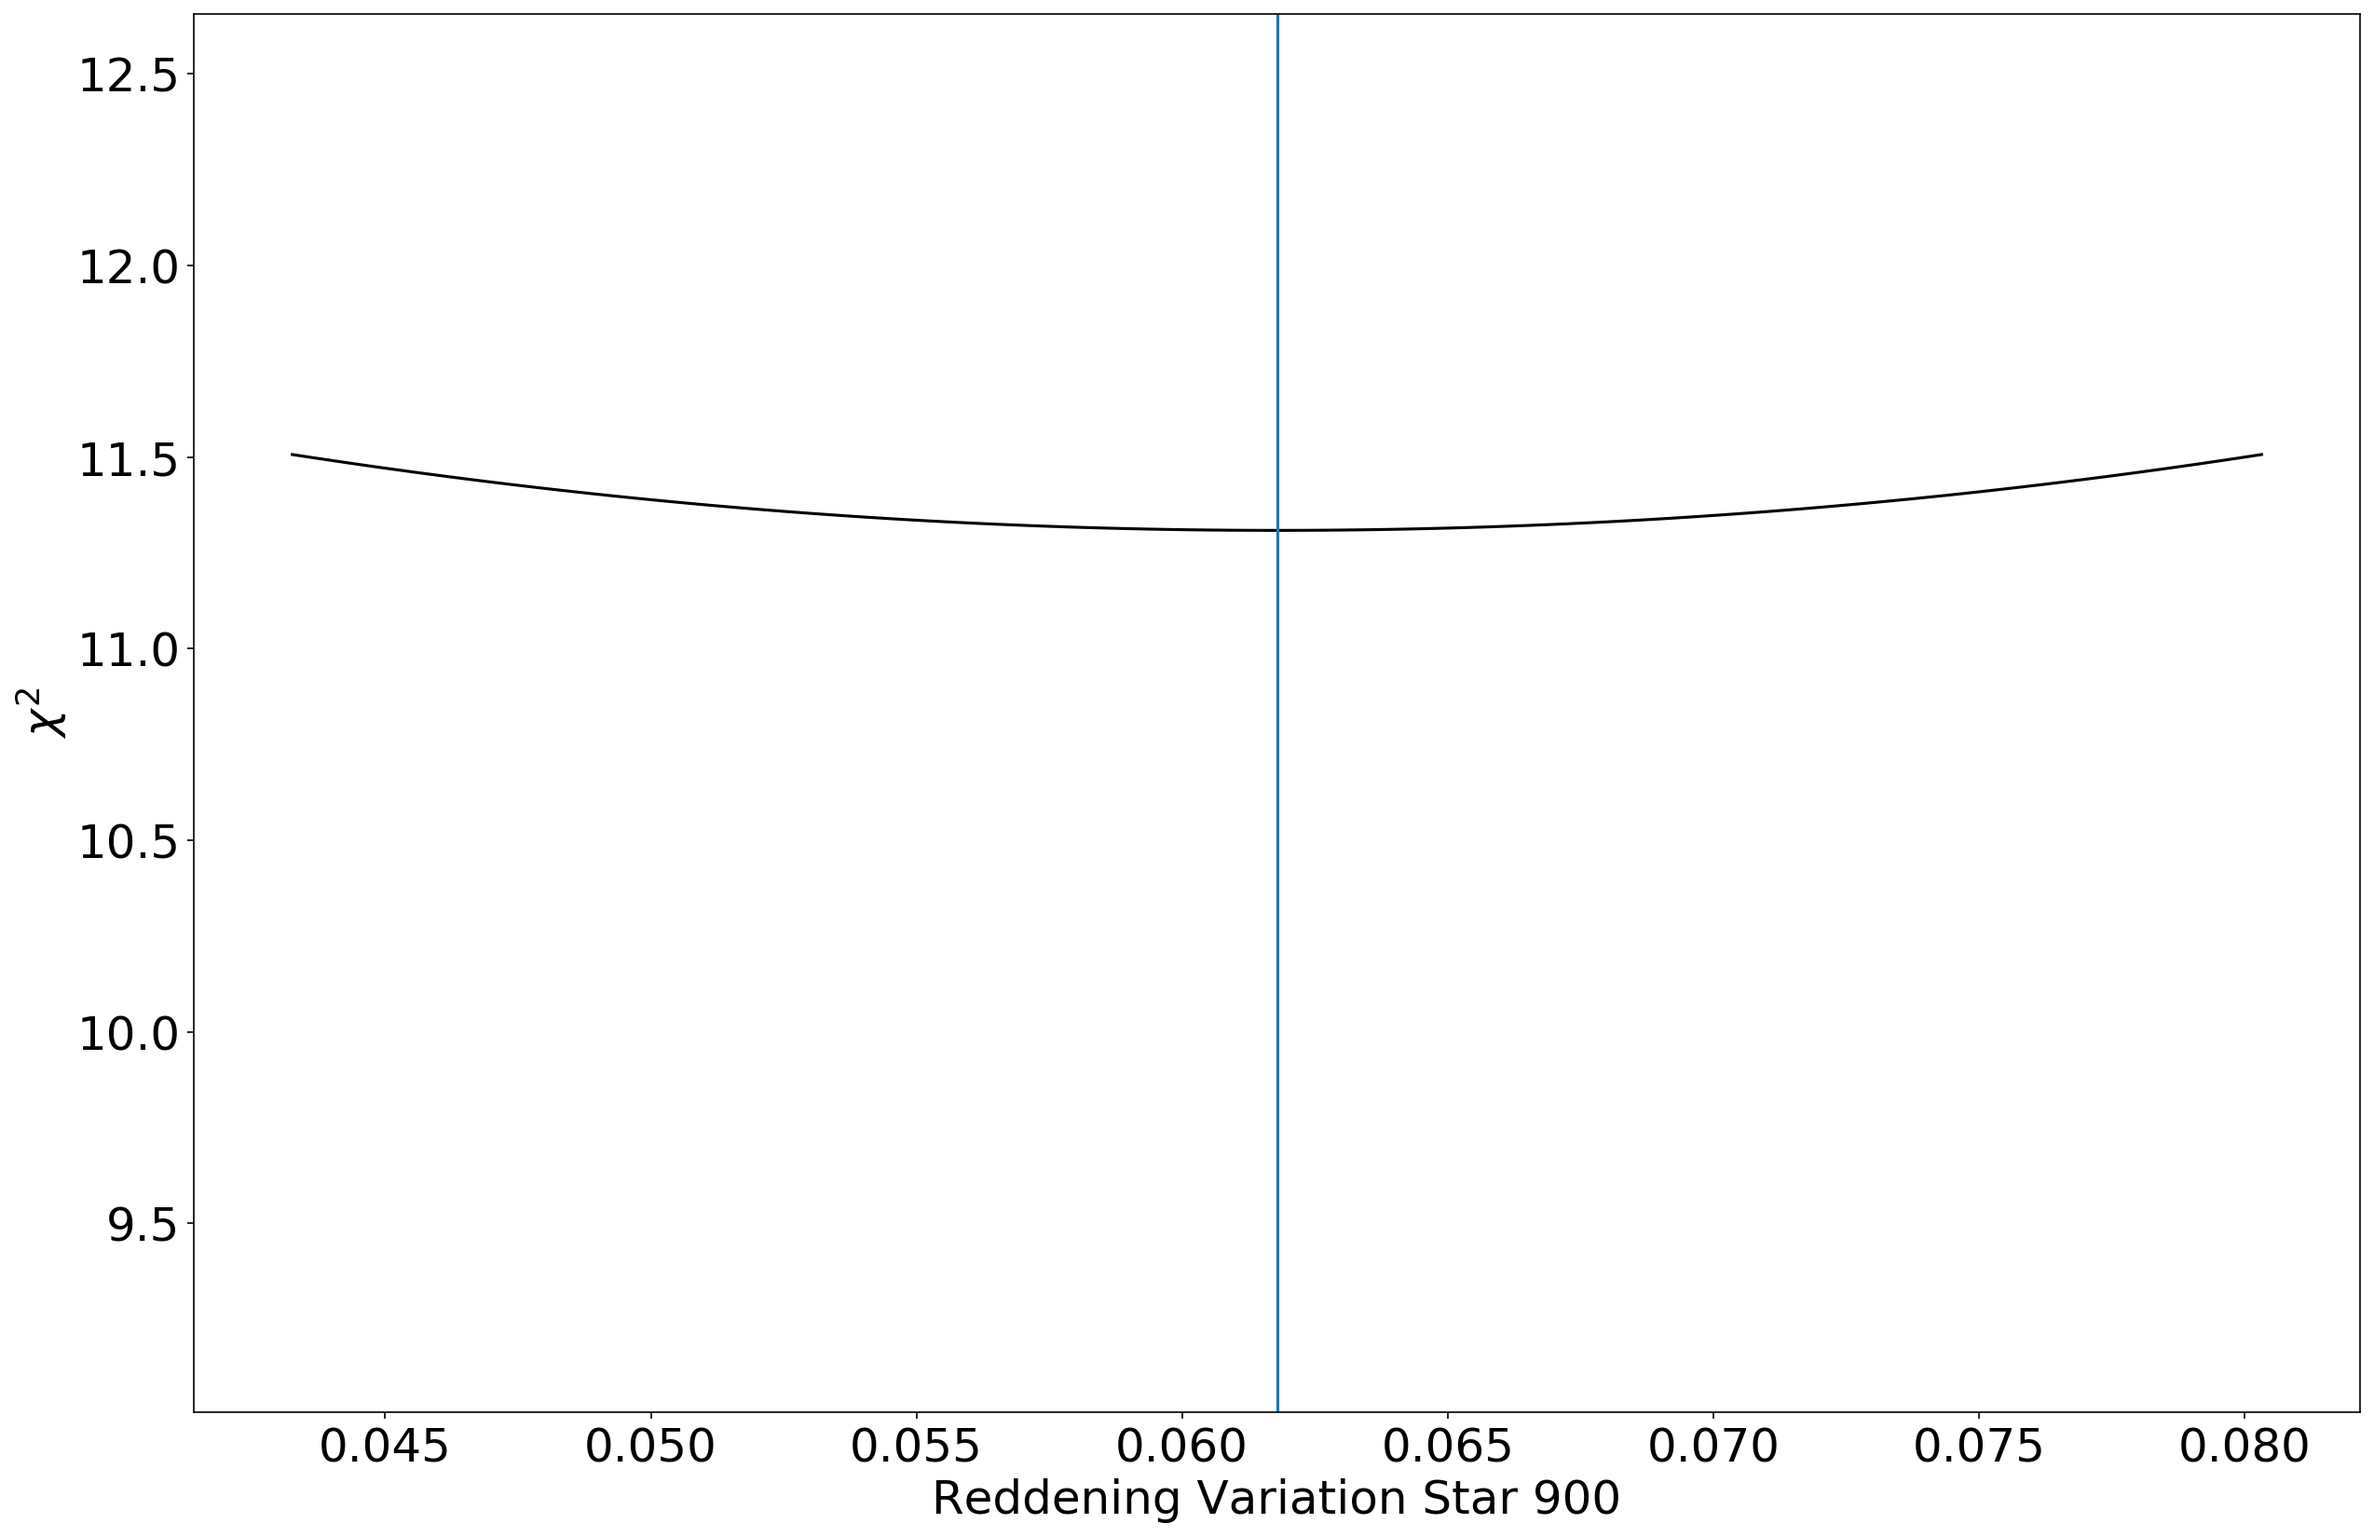
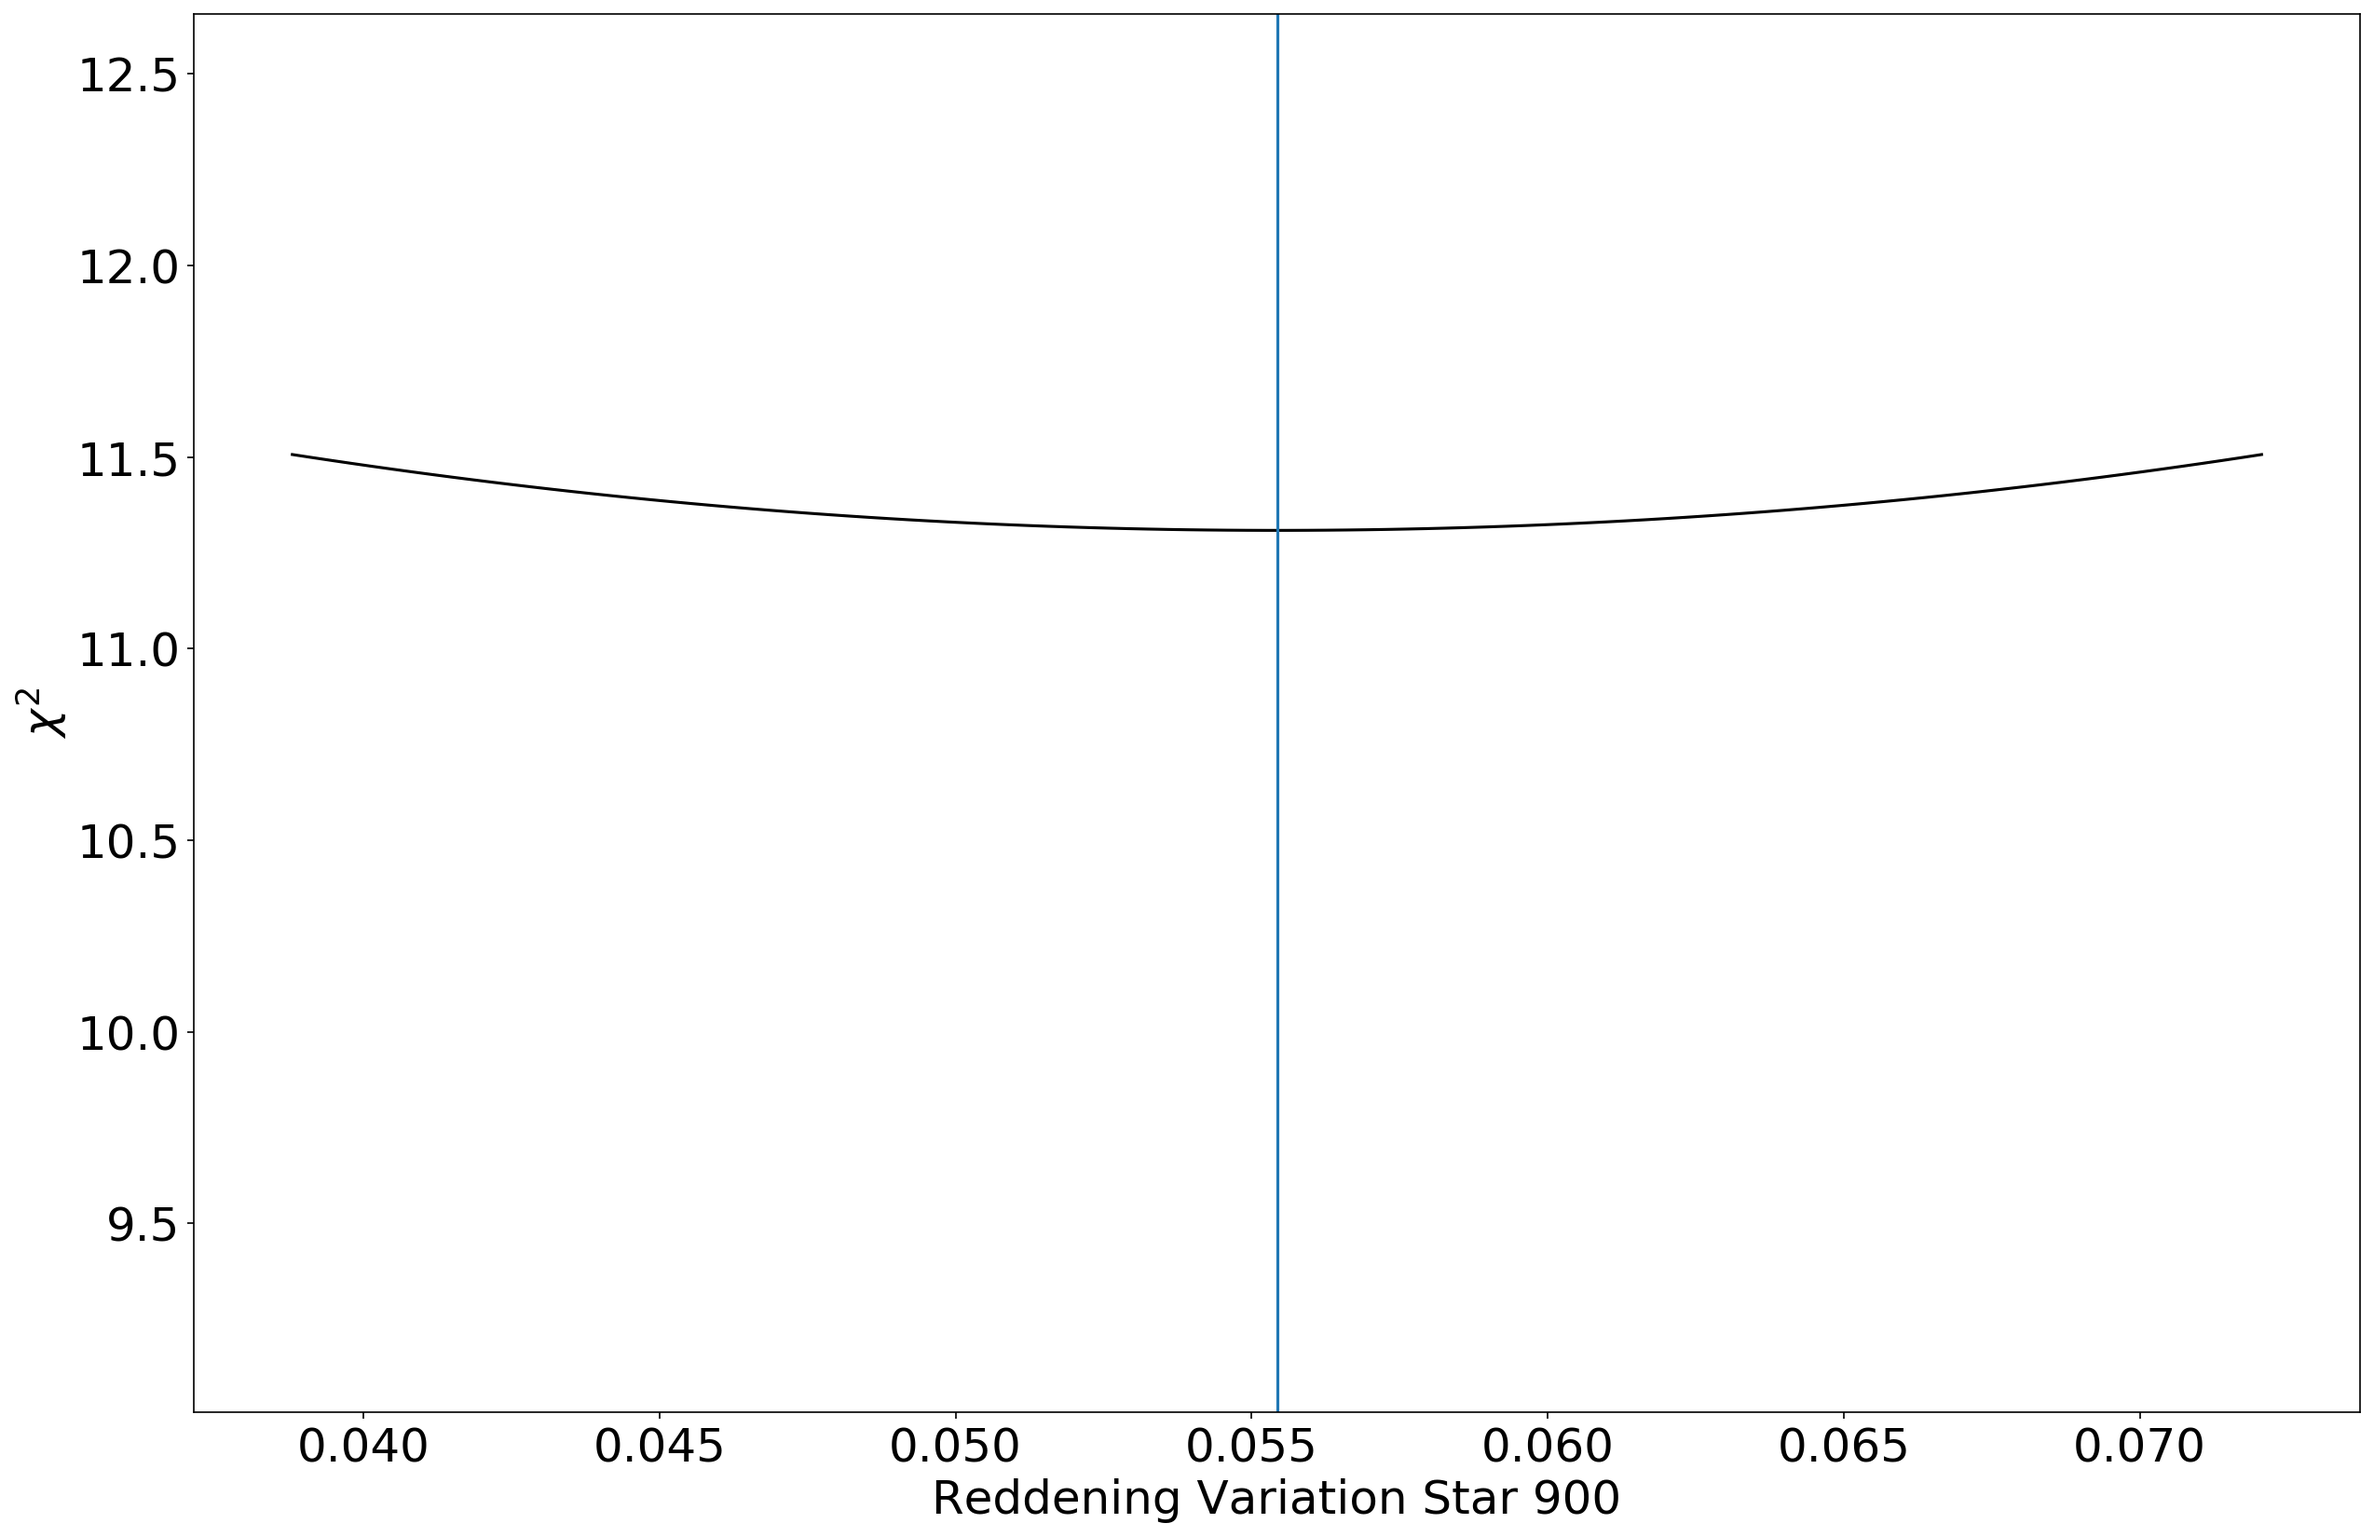
Update

diff --git a/mock_variation.py b/mock_variation.py
@@ -111,7 +111,7 @@ def constraint_ortho(R, dR, l1 = None, B_inv = None):
 
 def constraint_unity(R, l2 = None):
     # constraint that is f(R) - b
-    con = (np.dot(R,R)**0.5 - 1)
+    con = (np.dot(R,R) - 1)
 
     if l2 is not None:
         con *= l2
@@ -119,7 +119,7 @@ def constraint_unity(R, l2 = None):
     return con
 
 
-def lagrangian(R2, l1, l2, rho, B_inv, R1, EEC, EmC, ECm, ECR, ERC, RCm, mCR, RCR):
+def lagrangian(R2, l1, l2, n, rho, B_inv, R1, EEC, EmC, ECm, ECR, ERC, RCm, mCR, RCR):
     # calculate the terms that depend on the varibale we minimize for in chi_sq
     rCr = np.einsum('i,ij,j',R2,EEC,R2)
     mCr = np.dot(EmC,R2)
@@ -138,7 +138,7 @@ def lagrangian(R2, l1, l2, rho, B_inv, R1, EEC, EmC, ECm, ECR, ERC, RCm, mCR, RC
     con = con_1 + con_2
     pen = pen_1 + pen_2
     # calculate the augmented lagranian
-    lag = chi + con + pen
+    lag = chi/n + con + pen
 
     return lag
 
@@ -151,6 +151,7 @@ def calculate_R(R, E, dR, dE, C, m, l1, l2, rho, B_inv):
     RCm = dE*np.einsum('i,ni->n',dR,Cm)
     mCR = dE*np.einsum('ni,i->n',mC,dR)
     RCR = dE*np.einsum('i,ni->n',dR,CR)
+    n = len(E)
 
     # sum each term over all data points so the scipy method doesn't do the calculations
     EEC = np.sum(E[:,None,None]**2*C, axis=0)
@@ -163,10 +164,10 @@ def calculate_R(R, E, dR, dE, C, m, l1, l2, rho, B_inv):
     RCR = np.sum(RCR, axis=0)
 
     partial = (EEC, EmC, ECm, ECR, ERC, RCm, mCR, RCR)
-    arg = (l1, l2, rho, B_inv, dR) + partial
+    arg = (l1, l2, n, rho, B_inv, dR) + partial
 
-    co1 = lagrangian(R, 0, 0, [0,0], B_inv, dR, *partial) + mCm
-    co2 = np.sum(chi_sq(E, R, dE, dR, C, m))
+    co1 = lagrangian(R, 0, 0, n, [0,0], B_inv, dR, *partial) + mCm/n
+    co2 = np.sum(chi_sq(E, R, dE, dR, C, m))/n
     if not np.allclose(co1,co2):
         print("Values differ by ",co1-co2)
 
@@ -174,6 +175,8 @@ def calculate_R(R, E, dR, dE, C, m, l1, l2, rho, B_inv):
     with np.errstate(divide='ignore', invalid='ignore'):
         res = minimize(lagrangian, R, arg)
 
+
+    print(constraint_unity(res.x)+1, constraint_ortho(res.x,dR,B_inv=B_inv))
     return res.x
 
 
@@ -321,8 +324,8 @@ def probe_R(R, R_real, c, name):
     fig = plt.figure(figsize=(20,13), facecolor= 'white')
     ax = fig.subplots(1,1)
     ax.plot(range(len(c)), c, color='black')
-    ax.axhline(1,-1,110)
-    ax.set_xlim(-1,110)
+    ax.axhline(1,-1,int(1.1*len(c)))
+    ax.set_xlim(-1,int(1.1*len(c)))
     ax.set_ylabel('Iteration')
     ax.set_xlabel('Dotproduct of fitted ' + name + ' and real ' + name)
 
@@ -333,9 +336,9 @@ def probe_R(R, R_real, c, name):
     plt.rcParams.update({'font.size':24})
     fig = plt.figure(figsize=(20,13), facecolor= 'white')
     ax = fig.subplots(1,1)
-    ax.plot(range(len(R)), R-R_real)
-    ax.axhline(0,-2,len(R)+2)
-    ax.set_xlim(-2,len(R)+2)
+    ax.plot(np.linspace(1,len(R)-1,len(R)-1), R[1:]-R_real)
+    ax.axhline(0,1,int(1.05*len(R)),color='black')
+    ax.set_xlim(1,int(1.05*len(R)))
     ax.set_ylabel('Difference of fitted ' + name + ' and real ' + name)
     ax.set_xlabel('Iteration')
 
@@ -376,6 +379,9 @@ def result_hist(x, iter, label, xlim = None):
 def main():
     # set a max loop limit if we don't converge
     convergence_limit = 10000
+    test_len = 100
+    sample = 900
+
     # the path where the data is saved
     dir = 'data/'
     mock = dir + 'mock_data.h5'
@@ -383,23 +389,24 @@ def main():
     saving = dir + 'mock_result.h5'
     tests = ['dE','E','dR','R','dEdR']
     test = ''
-    sample = 900
 
     if len(sys.argv) == 2:
         if sys.argv[1] in tests:
             test = sys.argv[1]
         else:
             print("Only arguments accepted are: ", tests)
-    else:
+    elif len(sys.argv) > 2:
         print("Only 1 of ", tests, " can be passed")
 
     #TODO Maybe lower rho as iterations go on?
-    rho = [4e-1,4e-4,4e-1,4e-1]
+    rho = [4e-1,4e-1,4e-1,4e-1]
 
     # read out the data, Neural Network and prepare the data with the Neural Network
     data, r_fit, R_mock, dr_mock, dR_mock = read_out(mock)
     nn_model = tf.keras.models.load_model(model_path)
     dm, C, BR_m, B, B_inv = prepare_data(data, nn_model)
+    r_fit *= np.dot(BR_m, BR_m)**0.5
+    BR_m /= np.dot(BR_m, BR_m)**0.5
 
     # prepare the list that saved the values for each iteration (!!we fit for BR/BdR!!)
     BR = [BR_m]
@@ -409,7 +416,7 @@ def main():
     chi = []
 
     # set an inital value for lambdas
-    l1, l2, l3, l4 = [1], [1], [1], [1]
+    l1, l2, l3, l4 = [0], [0], [0], [0]
 
     if test == 'dE':
         BdR.append(dR_mock)
@@ -437,10 +444,10 @@ def main():
         return 0
 
     if test == 'dR':
-        dE.append(dr_mock)
+        dE.append(dr_mock+np.random.default_rng(14).normal(size=len(dr_mock))*0.04)
         BR.append(R_mock)
-        te = np.zeros((100,))
-        for i in range(100):
+        te = np.zeros((test_len,))
+        for i in range(test_len):
             BdR_temp = calculate_R(BdR[-1], dE[-1], BR[-1], E[-1], C, dm, l1[-1], l2[-1], rho[:2], B_inv)
             BdR.append(BdR_temp)
             l_1 = l1[-1] + constraint_ortho(BdR[-1],BR[-1],rho[0],B_inv)
@@ -449,14 +456,13 @@ def main():
             l2.append(l_2)
             te[i] = np.dot(BdR[-1],dR_mock)
         probe_R(BdR, dR_mock, te, 'dR')
-
         return 0
 
     if test == 'R':
         dE.append(dr_mock)
         BdR.append(dR_mock)
-        te = np.zeros((100,))
-        for i in range(100):
+        te = np.zeros((test_len,))
+        for i in range(test_len):
             BR_temp = calculate_R(BR[-1], E[-1], BdR[-1], dE[-1], C, dm, l3[-1], l4[-1], rho[2:], B_inv)
             BR.append(BR_temp)
             l_3 = l3[-1] + constraint_ortho(BR[-1], BdR[-1], rho[2], B_inv)
@@ -472,8 +478,8 @@ def main():
 
     if test == 'dEdR':
         BR.append(R_mock)
-        te = np.zeros((101,))
-        for i in range(101):
+        te = np.zeros((test_len,))
+        for i in range(test_len):
             dE_temp = calculate_E(BdR[-1], E[-1], BR[-1], C, dm)
             dE.append(dE_temp)
             if i%20==0:

diff --git a/mock_data.py b/mock_data.py
@@ -113,6 +113,9 @@ def mock_m(d, r, nn, seed = 14, max = 0.1):
     R_all = predict_R(d['atm_param_p'], nn)
     R = np.mean(R_all, axis=0)
     BR = np.einsum('ij,j->i',B,R)
+    r *= np.dot(BR,BR)**0.5
+    R /= np.dot(BR,BR)**0.5
+    BR /= np.dot(BR,BR)**0.5
 
     # predict m from theta and take parallax and reddening into account for m
     m = predict_M(d['atm_param_p'], nn)
@@ -138,6 +141,7 @@ def mock_m(d, r, nn, seed = 14, max = 0.1):
         m_err[idx] = replace
 
     d['mag_err'] = m_err
+    r /= np.dot(BR,BR)**0.5
 
     return BR, dE, BdR
 
